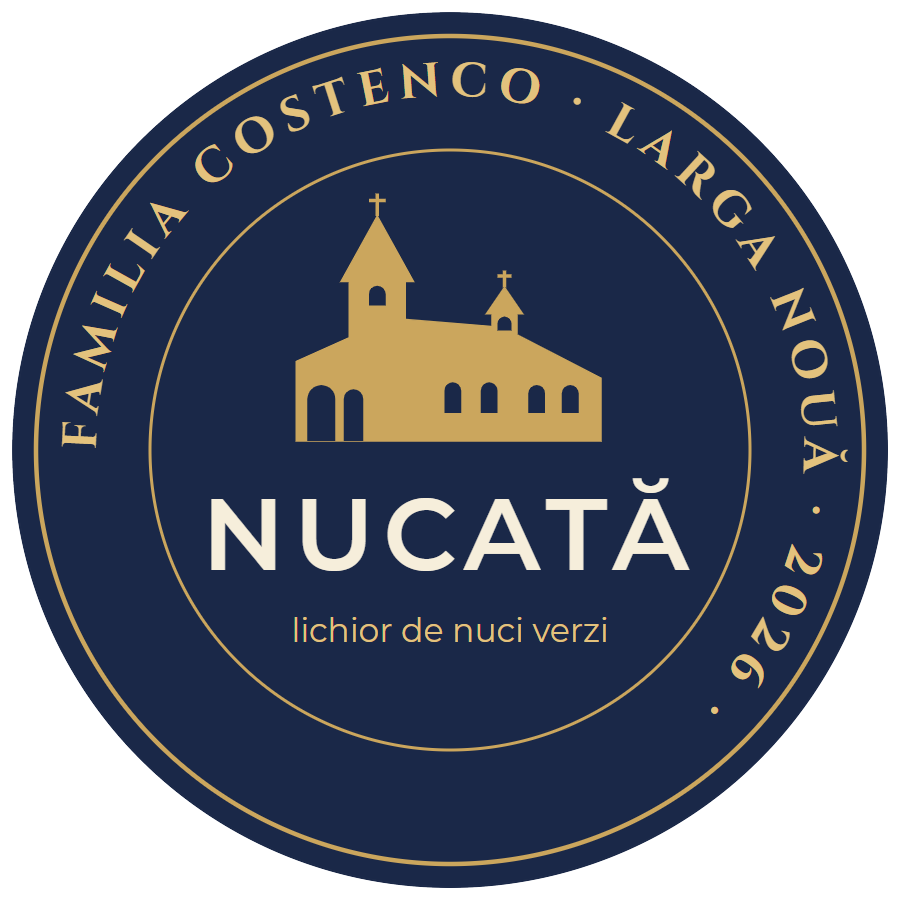
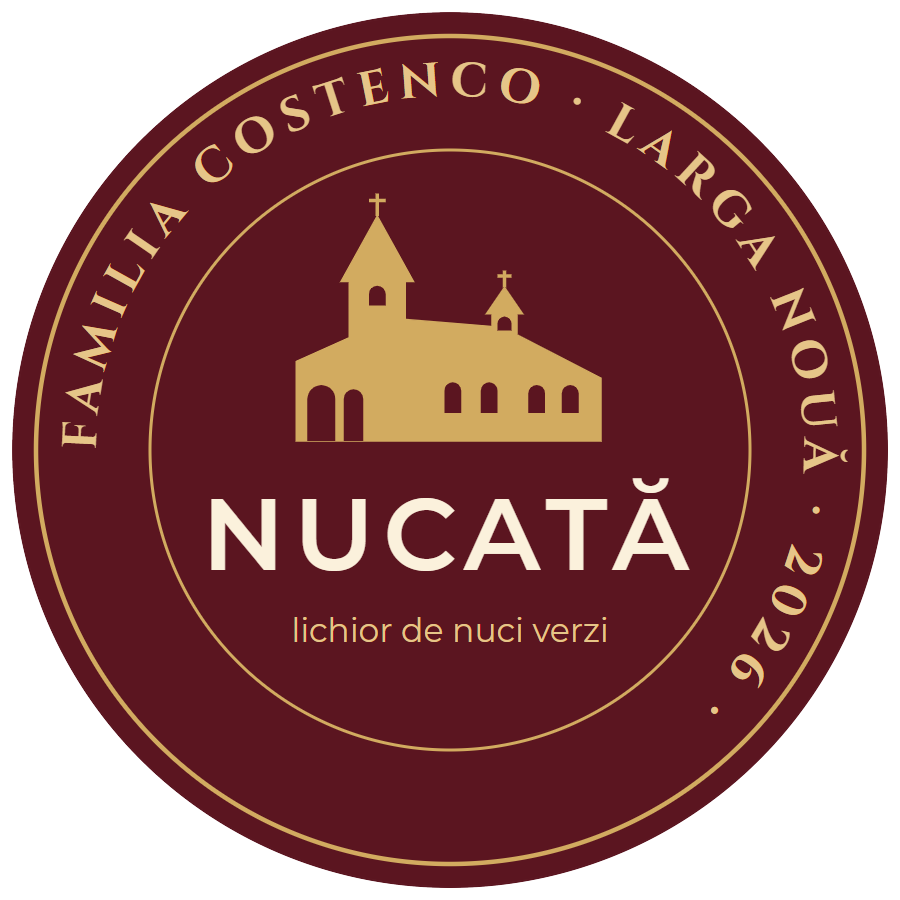
Emblema pe bordo, eticheta sticlei, desenele mai mari
Emblema trece pe paleta C (vișiniu și auriu), aleasă de Vladimir.
Pagina arată și eticheta sticlei pe bordo, rotundă și dreptunghiulară,
cu măsuri provizorii până se măsoară sticla. Fiecare desen stă acum pe
un rând, mare, și se deschide întreg la apăsare.

diff --git a/index.html b/index.html
@@ -6,95 +6,113 @@
 <meta name="robots" content="noindex">
 <title>Autocolante Nucată · familia Costenco</title>
 <style>
-  :root { --fond: #efebe4; --card: #ffffff; --text: #2a2420; --sters: #5f554b; --perete: #f1eee6; --linie: #e2dcd2; }
+  :root { --fond: #efebe4; --card: #ffffff; --text: #2a2420; --sters: #5f554b; --perete: #f1eee6; --linie: #e2dcd2; --bordo: #5b1520; }
   * { box-sizing: border-box; margin: 0; padding: 0; }
   body { background: var(--fond); color: var(--text); font-family: system-ui, -apple-system, "Segoe UI", Roboto, sans-serif; line-height: 1.5; }
-  main { max-width: 1120px; margin: 0 auto; padding: 28px 16px 48px; }
-  h1 { font-size: clamp(24px, 4vw, 34px); line-height: 1.2; }
-  .intro { color: var(--sters); margin-top: 8px; max-width: 760px; }
-  h2 { font-size: 13px; letter-spacing: 2px; text-transform: uppercase; color: var(--sters); margin: 32px 0 12px; }
-  .grila { display: grid; gap: 16px; grid-template-columns: repeat(auto-fill, minmax(min(100%, 320px), 1fr)); }
-  .lat { grid-column: 1 / -1; }
-  .card { background: var(--card); border-radius: 12px; padding: 14px; box-shadow: 0 2px 10px rgba(0,0,0,.06); }
-  .fond { display: flex; align-items: center; justify-content: center; background: var(--perete); border-radius: 8px; padding: 16px; min-height: 200px; }
+  main { max-width: 1200px; margin: 0 auto; padding: 28px 16px 48px; }
+  h1 { font-size: clamp(24px, 4vw, 36px); line-height: 1.2; }
+  .intro { color: var(--sters); margin-top: 8px; max-width: 780px; font-size: 16px; }
+  h2 { font-size: 14px; letter-spacing: 2px; text-transform: uppercase; color: var(--sters); margin: 40px 0 14px; }
+  .lista { display: grid; gap: 22px; }
+  .doua { display: grid; gap: 22px; grid-template-columns: repeat(auto-fit, minmax(min(100%, 420px), 1fr)); }
+  .card { background: var(--card); border-radius: 14px; padding: 16px; box-shadow: 0 2px 12px rgba(0,0,0,.07); }
+  .fond { display: flex; align-items: center; justify-content: center; background: var(--perete); border-radius: 10px; padding: clamp(12px, 3vw, 32px); }
+  .fond a { display: block; line-height: 0; }
   .sticla { background: linear-gradient(135deg, #6f8a9c, #9fb4c2); }
-  .fond img { max-width: 100%; max-height: 340px; height: auto; }
-  .card h3 { font-size: 17px; margin-top: 12px; }
-  .card p { font-size: 14px; color: var(--sters); margin-top: 4px; }
+  .fond img { display: block; max-width: 100%; height: auto; max-height: min(78vh, 760px); }
+  .lat img { width: 100%; }
+  .card h3 { font-size: 20px; margin-top: 14px; }
+  .card p { font-size: 15px; color: var(--sters); margin-top: 4px; }
   .card p b { color: var(--text); }
-  .card a { display: inline-block; margin-top: 8px; font-size: 14px; color: #1f3f73; }
-  .plansa { margin-top: 32px; }
-  .plansa img { width: 100%; height: auto; border-radius: 8px; border: 1px solid var(--linie); }
-  footer { margin-top: 32px; font-size: 13px; color: var(--sters); }
+  .card .fisier { display: inline-block; margin-top: 10px; font-size: 15px; color: #1f3f73; }
+  .plansa img { width: 100%; height: auto; border-radius: 10px; border: 1px solid var(--linie); display: block; }
+  .nota { font-size: 14px; color: var(--sters); margin-top: 10px; }
+  footer { margin-top: 36px; font-size: 14px; color: var(--sters); }
 </style>
 </head>
 <body>
 <main>
   <h1>Autocolantele căsuței · Nucată · familia Costenco</h1>
-  <p class="intro">Pentru serbarea de toamnă din Larga Nouă. Căsuța e o bojdeucă albă, acoperită cu stuf, de 4 × 3 m, cu ușa la mijloc și două geamuri. Pentru aprobare: desenele, măsurile și câte bucăți trebuie tipărite.</p>
+  <p class="intro">Pentru serbarea de toamnă din Larga Nouă. Căsuța e o bojdeucă albă, acoperită cu stuf, de 4 × 3 m, cu ușa la mijloc și două geamuri. Pentru aprobare: desenele, măsurile și câte bucăți trebuie tipărite. Apăsați pe un desen ca să-l vedeți întreg.</p>
 
   <div class="plansa">
     <h2>Cum arată pe căsuță</h2>
-    <img src="casuta-amenajata.jpg" alt="Căsuța simulată, cu autocolantele puse și cu butoaie, dovleci, baloți de paie și gard de nuiele în față">
-    <p class="intro">Simulare: autocolantele la locul și la mărimea lor, plus obiectele din fața intrării (laviță, coș cu nuci, butoaie, dovleci, baloți de paie, roată de car, gard de nuiele).</p>
+    <a href="casuta-amenajata.jpg" target="_blank"><img src="casuta-amenajata.jpg" alt="Căsuța simulată, cu autocolantele puse și cu butoaie, dovleci, baloți de paie și gard de nuiele în față"></a>
+    <p class="nota">Simulare: autocolantele la locul și la mărimea lor, plus obiectele din fața intrării (laviță, coș cu nuci, butoaie, dovleci, baloți de paie, roată de car, gard de nuiele).</p>
+  </div>
+
+  <h2>Eticheta sticlei, pe bordo</h2>
+  <div class="doua">
+    <div class="card">
+      <div class="fond"><a href="emblema.png" target="_blank"><img src="emblema.png" alt="Eticheta rotundă Nucată, pe bordo, cu biserica din Larga Nouă"></a></div>
+      <h3>Eticheta rotundă</h3>
+      <p><b>Ø 90 mm</b>, provizoriu, până se măsoară sticla. Același desen ca emblema de pe perete.</p>
+      <a class="fisier" href="tipar/eticheta-rotunda-90.svg" download>Fișierul de tipar (SVG)</a>
+    </div>
+    <div class="card">
+      <div class="fond"><a href="eticheta-dreptunghiulara.png" target="_blank"><img src="eticheta-dreptunghiulara.png" alt="Eticheta dreptunghiulară Nucată, pe bordo, cu biserica desenată în linie aurie"></a></div>
+      <h3>Eticheta dreptunghiulară</h3>
+      <p><b>75 × 100 mm</b>, provizoriu, până se măsoară sticla. Biserica în linie aurie, cu ornamentul sub ea.</p>
+      <a class="fisier" href="tipar/eticheta-dreptunghiulara-75x100.svg" download>Fișierul de tipar (SVG)</a>
+    </div>
   </div>
 
   <h2>Afară</h2>
-  <div class="grila">
+  <div class="lista">
     <div class="card lat">
-      <div class="fond"><img src="tipar/brau-1575x350.svg" alt="Brâul de jos: bandă albastră cu linie frântă colorată, romburi și flori"></div>
+      <div class="fond"><a href="tipar/brau-1575x350.svg" target="_blank"><img src="tipar/brau-1575x350.svg" alt="Brâul de jos: bandă albastră cu linie frântă colorată, romburi și flori"></a></div>
       <h3>1 · Brâul de jos</h3>
       <p><b>1575 × 350 mm, 2 bucăți</b>, de la colțul casei până la ușă, de o parte și de alta. Ține locul vopselei.</p>
-      <a href="tipar/brau-1575x350.svg" download>Fișierul de tipar (SVG)</a>
+      <a class="fisier" href="tipar/brau-1575x350.svg" download>Fișierul de tipar (SVG)</a>
     </div>
     <div class="card">
-      <div class="fond"><img src="tipar/chenar-geam-920x1010.svg" alt="Chenarul albastru din jurul geamului, cu romburi albe"></div>
+      <div class="fond"><a href="tipar/chenar-geam-920x1010.svg" target="_blank"><img src="tipar/chenar-geam-920x1010.svg" alt="Chenarul albastru din jurul geamului, cu romburi albe"></a></div>
       <h3>2 · Chenarul geamului</h3>
       <p><b>920 × 1010 mm, 2 bucăți</b>, pe perete, în jurul fiecărui geam. Golul de 700 × 800 mm din mijloc se decupează.</p>
-      <a href="tipar/chenar-geam-920x1010.svg" download>Fișierul de tipar (SVG)</a>
+      <a class="fisier" href="tipar/chenar-geam-920x1010.svg" download>Fișierul de tipar (SVG)</a>
     </div>
     <div class="card">
-      <div class="fond sticla"><img src="tipar/dantela-geam-270x120.svg" alt="Dantelă albă pentru sticla geamului"></div>
+      <div class="fond sticla"><a href="tipar/dantela-geam-270x120.svg" target="_blank"><img src="tipar/dantela-geam-270x120.svg" alt="Dantelă albă pentru sticla geamului" style="width:min(100%, 760px)"></a></div>
       <h3>3 · Dantelă pe sticlă</h3>
       <p><b>270 × 120 mm, 4 bucăți</b>, sus pe ochiurile de sus ale geamurilor. Albă, pe folie transparentă.</p>
-      <a href="tipar/dantela-geam-270x120.svg" download>Fișierul de tipar (SVG)</a>
+      <a class="fisier" href="tipar/dantela-geam-270x120.svg" download>Fișierul de tipar (SVG)</a>
     </div>
   </div>
 
   <h2>Înăuntru</h2>
-  <div class="grila">
-    <div class="card">
-      <div class="fond"><img src="tipar/scoarta-2000x1300.svg" alt="Scoarță moldovenească geometrică, roșu cu negru"></div>
+  <div class="lista">
+    <div class="card lat">
+      <div class="fond"><a href="tipar/scoarta-2000x1300.svg" target="_blank"><img src="tipar/scoarta-2000x1300.svg" alt="Scoarță moldovenească geometrică, roșu cu negru"></a></div>
       <h3>4 · Scoarța</h3>
       <p><b>2000 × 1300 mm, 1 bucată</b>, pe peretele din spate: primul lucru pe care îl vezi când intri.</p>
-      <a href="tipar/scoarta-2000x1300.svg" download>Fișierul de tipar (SVG)</a>
-    </div>
-    <div class="card">
-      <div class="fond"><img src="tipar/stergar-1200x800.svg" alt="Ștergar alb cu broderie roșie, petrecut peste geam"></div>
-      <h3>5 · Ștergar peste geam</h3>
-      <p><b>1200 × 800 mm, 2 bucăți</b>, pe dinăuntru, deasupra fiecărui geam. Capetele cad pe lângă geam, nu pe sticlă.</p>
-      <a href="tipar/stergar-1200x800.svg" download>Fișierul de tipar (SVG)</a>
-    </div>
-    <div class="card">
-      <div class="fond"><img src="emblema.png" alt="Emblema rotundă Nucată, cu biserica din Larga Nouă"></div>
-      <h3>6 · Emblema Nucată</h3>
-      <p><b>Ø 600 mm, 1 bucată</b>, pe peretele din dreapta, lângă sticle. Același desen ca eticheta sticlei.</p>
-      <a href="tipar/emblema-600.svg" download>Fișierul de tipar (SVG)</a>
+      <a class="fisier" href="tipar/scoarta-2000x1300.svg" download>Fișierul de tipar (SVG)</a>
     </div>
     <div class="card lat">
-      <div class="fond" style="min-height:120px"><img src="tipar/friz-960x160.svg" alt="Friz cu motive de cusătură roșu cu negru"></div>
+      <div class="fond"><a href="tipar/stergar-1200x800.svg" target="_blank"><img src="tipar/stergar-1200x800.svg" alt="Ștergar alb cu broderie roșie, petrecut peste geam"></a></div>
+      <h3>5 · Ștergar peste geam</h3>
+      <p><b>1200 × 800 mm, 2 bucăți</b>, pe dinăuntru, deasupra fiecărui geam. Capetele cad pe lângă geam, nu pe sticlă.</p>
+      <a class="fisier" href="tipar/stergar-1200x800.svg" download>Fișierul de tipar (SVG)</a>
+    </div>
+    <div class="card">
+      <div class="fond"><a href="emblema.png" target="_blank"><img src="emblema.png" alt="Emblema rotundă Nucată pe bordo, cu biserica din Larga Nouă" style="width:min(100%, 640px)"></a></div>
+      <h3>6 · Emblema Nucată</h3>
+      <p><b>Ø 600 mm, 1 bucată</b>, pe peretele din dreapta, lângă sticle. Același desen ca eticheta rotundă, pe bordo.</p>
+      <a class="fisier" href="tipar/emblema-600.svg" download>Fișierul de tipar (SVG)</a>
+    </div>
+    <div class="card lat">
+      <div class="fond"><a href="tipar/friz-960x160.svg" target="_blank"><img src="tipar/friz-960x160.svg" alt="Friz cu motive de cusătură roșu cu negru"></a></div>
       <h3>7 · Frizul de sub tavan</h3>
       <p><b>160 mm înălțime, fâșii de 960 mm, 14 fâșii</b> (circa 13 m, pe toți cei patru pereți, pe dinăuntru, chiar sub tavan). Roșu cu negru, pe folie transparentă. Fâșiile se lipesc cap la cap; crucea de la capete se completează.</p>
-      <a href="tipar/friz-960x160.svg" download>Fișierul de tipar (SVG)</a>
+      <a class="fisier" href="tipar/friz-960x160.svg" download>Fișierul de tipar (SVG)</a>
     </div>
   </div>
 
   <div class="plansa">
     <h2>Toate pe o singură planșă</h2>
-    <img src="plansa-autocolante.jpg" alt="Planșa cu toate cele șapte autocolante" loading="lazy">
+    <a href="plansa-autocolante.jpg" target="_blank"><img src="plansa-autocolante.jpg" alt="Planșa cu toate cele șapte autocolante" loading="lazy"></a>
   </div>
 
-  <footer>Fișierele SVG sunt la dimensiunea reală (1 unitate = 1 mm). La emblemă, textul se transformă în contururi înainte de tipar.</footer>
+  <footer>Fișierele SVG sunt la dimensiunea reală (1 unitate = 1 mm). La emblemă și la etichete, textul se transformă în contururi înainte de tipar.</footer>
 </main>
 </body>
 </html>
